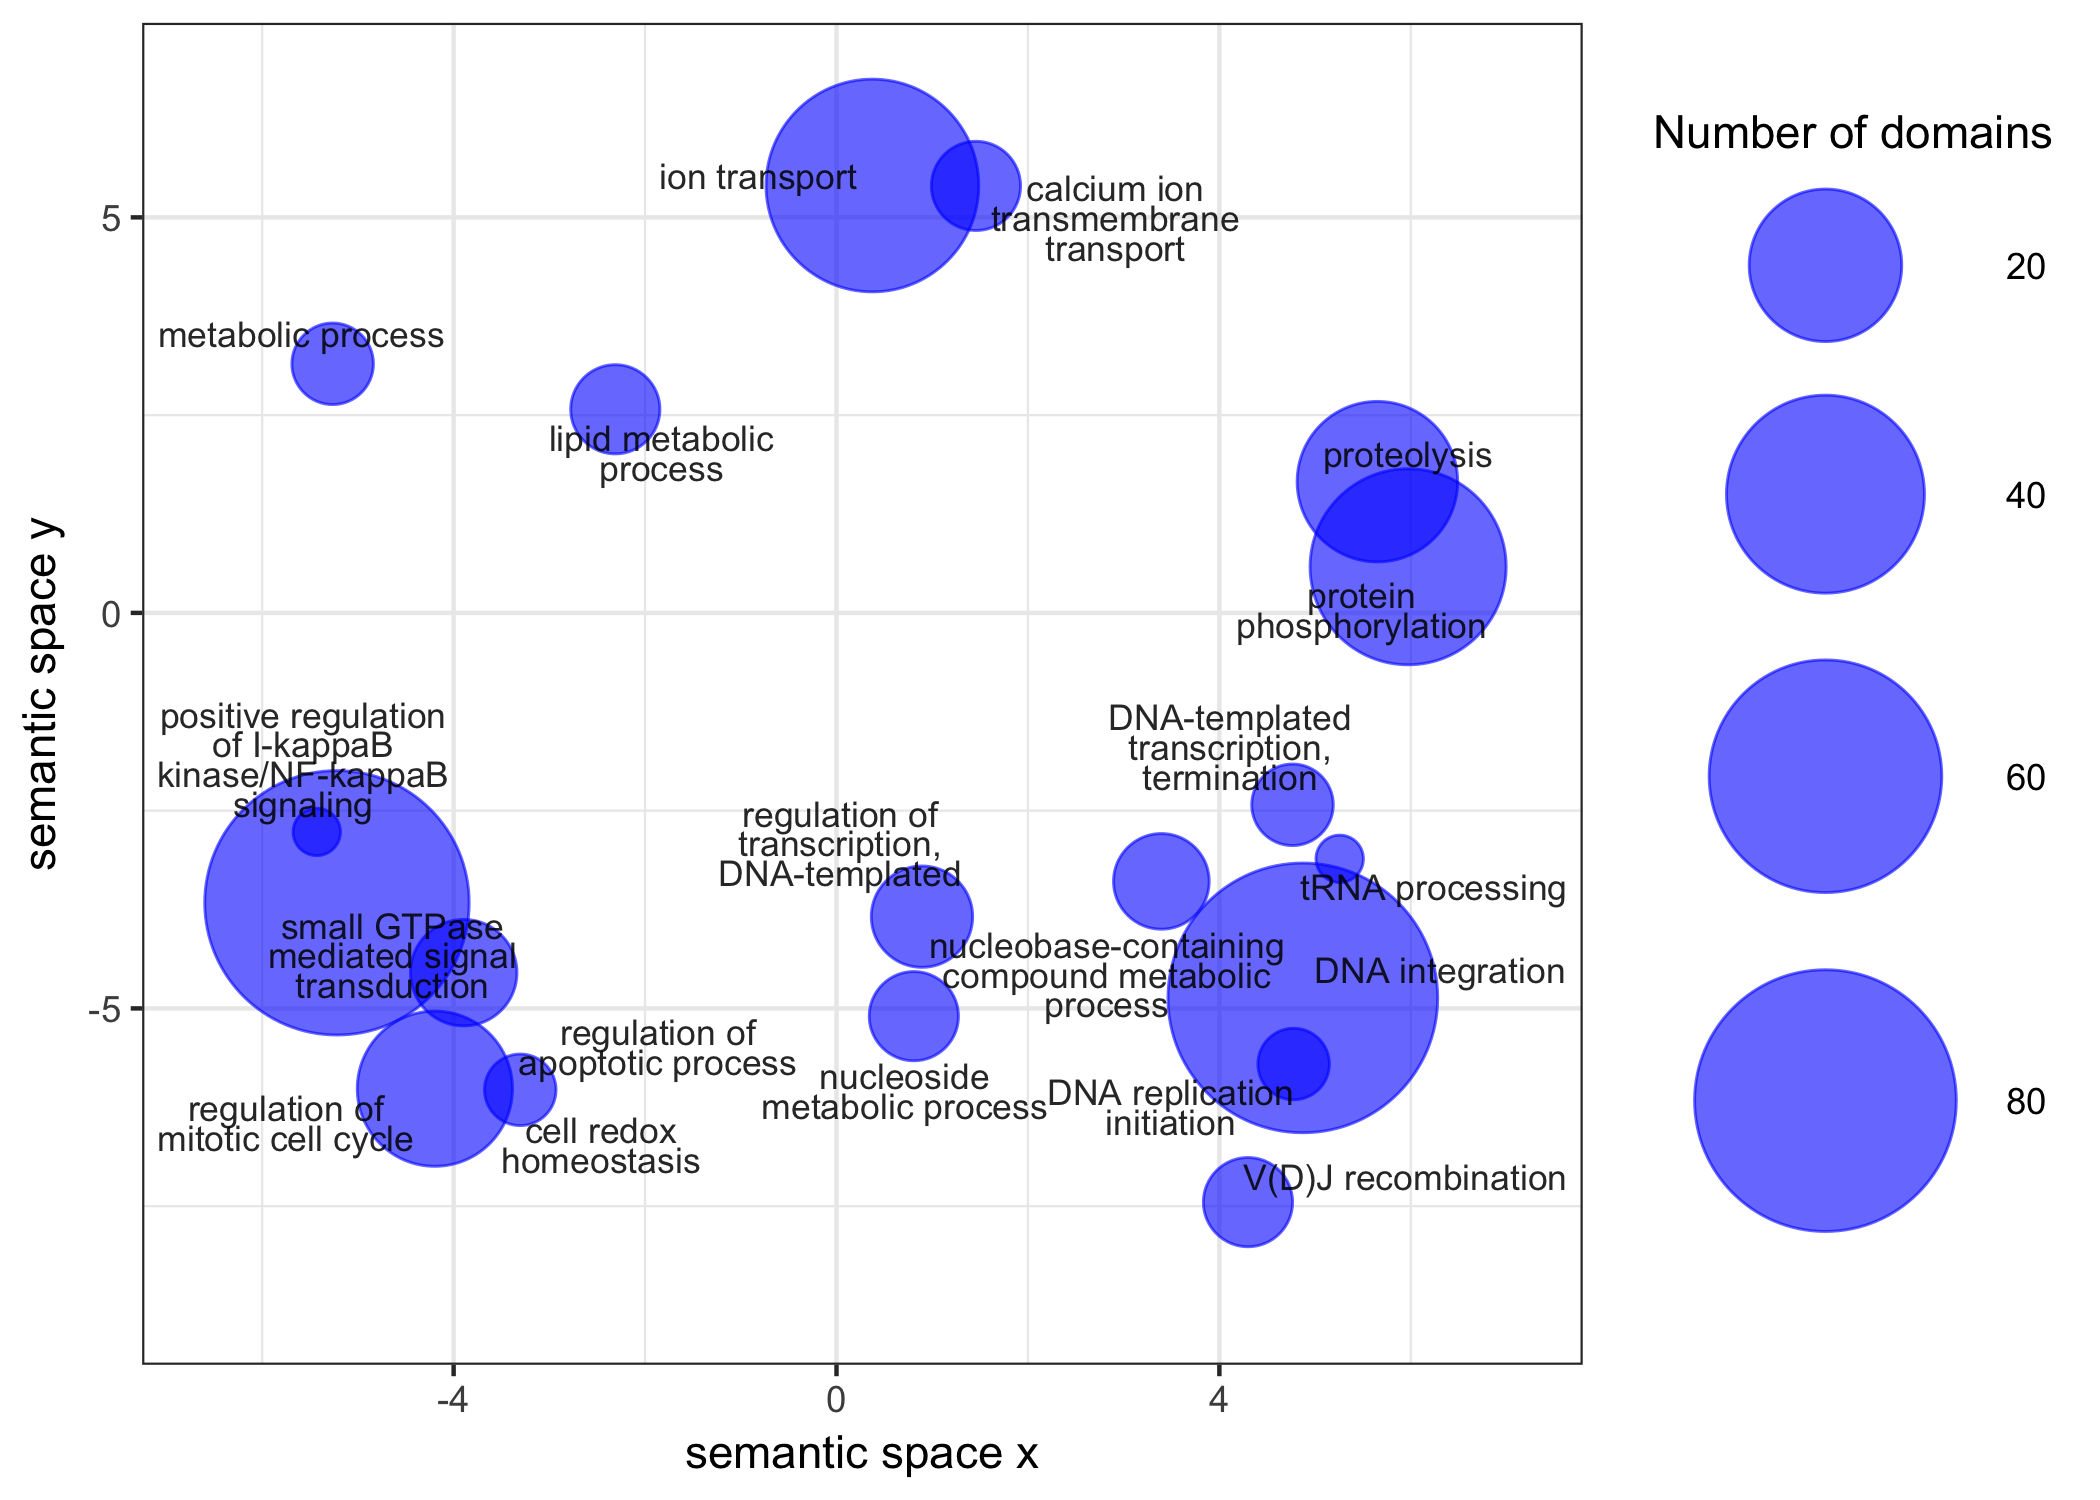
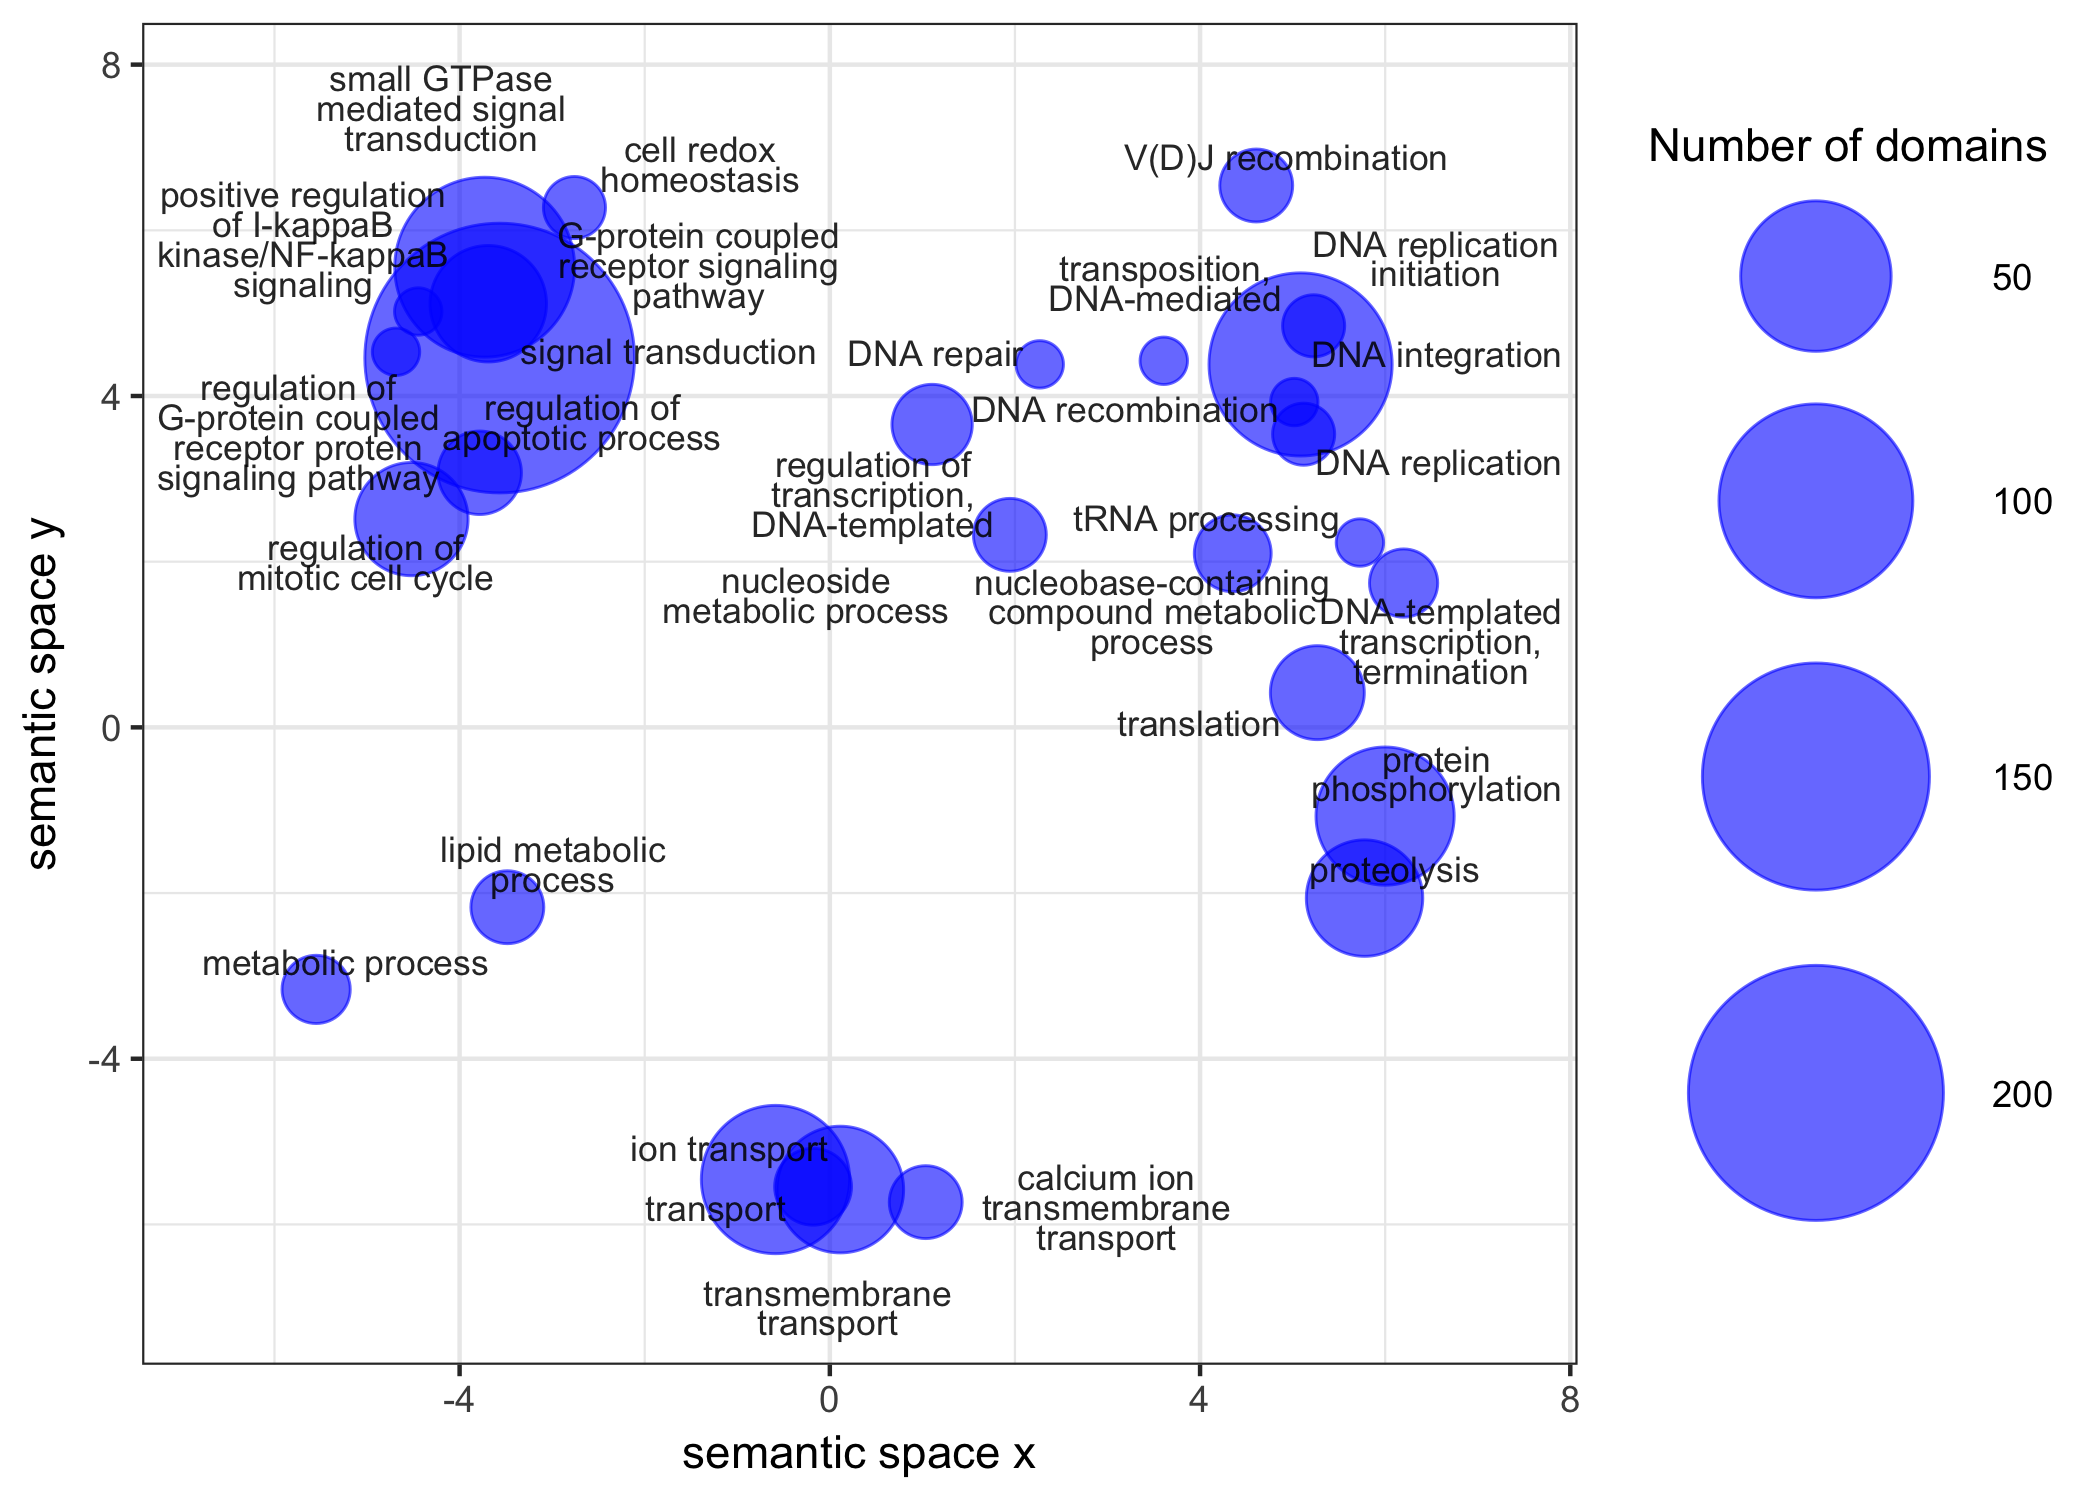
change revigo similarity to 0.70

diff --git a/python/scrape_revigo.py b/python/scrape_revigo.py
@@ -11,7 +11,7 @@ br.open("http://revigo.irb.hr/")
 
 form = br.get_form()
 form["goList"].value = goterms2
-form["cutoff"].value = '0.50'
+form["cutoff"].value = '0.70'
 form["isPValue"].value = 'no'
 form["whatIsBetter"].value = 'higher'
 form["goSizes"].value = '0'
